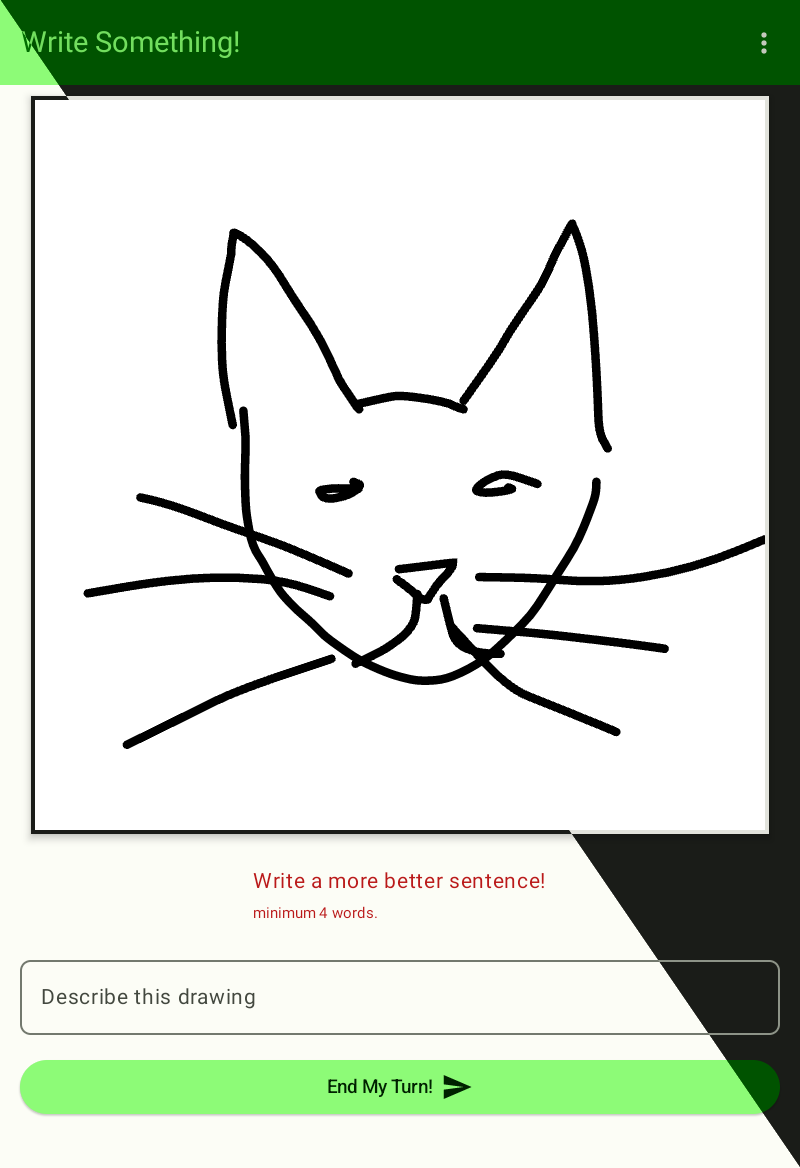
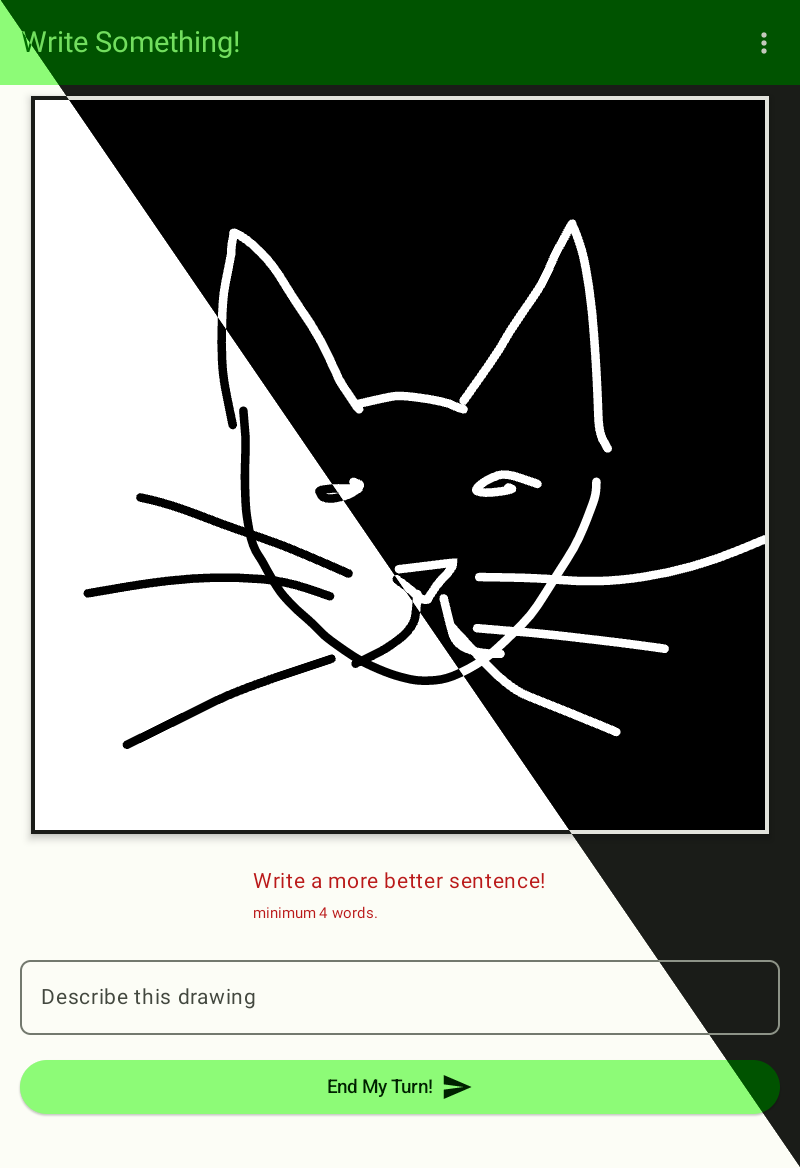
make dark, darker

diff --git a/app/src/main/java/dev/develsinthedetails/eatpoopyoucat/compose/draw/DrawScreen.kt b/app/src/main/java/dev/develsinthedetails/eatpoopyoucat/compose/draw/DrawScreen.kt
@@ -38,7 +38,6 @@ import androidx.compose.runtime.setValue
 import androidx.compose.ui.Modifier
 import androidx.compose.ui.draw.shadow
 import androidx.compose.ui.geometry.Offset
-import androidx.compose.ui.graphics.Color
 import androidx.compose.ui.graphics.StrokeCap
 import androidx.compose.ui.graphics.drawscope.Stroke
 import androidx.compose.ui.input.pointer.PointerInputChange
@@ -66,6 +65,8 @@ import dev.develsinthedetails.eatpoopyoucat.data.LineProperties
 import dev.develsinthedetails.eatpoopyoucat.data.LineSegment
 import dev.develsinthedetails.eatpoopyoucat.data.Resolution
 import dev.develsinthedetails.eatpoopyoucat.ui.theme.AppTheme
+import dev.develsinthedetails.eatpoopyoucat.ui.theme.drawingBackground
+import dev.develsinthedetails.eatpoopyoucat.ui.theme.drawingPen
 import dev.develsinthedetails.eatpoopyoucat.utilities.Gzip
 import dev.develsinthedetails.eatpoopyoucat.viewmodels.DrawMode
 import dev.develsinthedetails.eatpoopyoucat.viewmodels.DrawViewModel
@@ -256,7 +257,7 @@ private fun Draw(
         DrawBox(
             drawingLines = linesState.value,
             currentLine = currentLineState.value,
-            currentProperties = currentPropertiesState.value,
+            currentProperties = currentPropertiesState,
             modifier = modifier
         )
 
@@ -291,7 +292,7 @@ fun DrawBox(
     drawingZippedJson: ByteArray? = byteArrayOf(),
     drawingLines: List<Line> = listOf(),
     currentLine: List<LineSegment> = listOf(),
-    currentProperties: LineProperties = LineProperties(),
+    currentProperties: State<LineProperties> = mutableStateOf(LineProperties()),
     onClick: () -> Unit = {},
     onLongClick: () -> Unit = {},
 ) {
@@ -303,7 +304,10 @@ fun DrawBox(
         mutableListOf()
 
     if (currentLine.isNotEmpty())
-        lines.add(Line(currentLine, currentProperties))
+        lines.add(Line(currentLine, currentProperties.value))
+
+    val drawingBackground = MaterialTheme.colorScheme.drawingBackground
+    val drawingPen = MaterialTheme.colorScheme.drawingPen
 
     var height = 0
     var width = 0
@@ -312,7 +316,7 @@ fun DrawBox(
             .aspectRatio(1f)
             .padding(8.dp)
             .shadow(4.dp)
-            .background(Color.White)
+            .background(drawingBackground)
             .border(border = BorderStroke(3.dp, MaterialTheme.colorScheme.onBackground))
             .combinedClickable(
                 onLongClick = { onLongClick.invoke() },
@@ -329,6 +333,7 @@ fun DrawBox(
     {
         val currentResolution = Resolution(height = height, width = width)
         lines.forEach {
+            val drawColor = if (it.properties.eraseMode) drawingBackground else drawingPen
             val path = it.toPath()
             val scaledPath = DrawViewModel.scalePath(path, currentResolution, it.resolution)
             val scaledStroke = DrawViewModel.scaleStroke(
@@ -342,7 +347,7 @@ fun DrawBox(
             if (isSinglePoint) {
                 val bounds = scaledPath.getBounds()
                 drawCircle(
-                    color = it.properties.drawColor(),
+                    color = drawColor,
                     radius = scaledStroke / 4,
                     center = Offset(bounds.left, bounds.top),
                     style = Stroke(
@@ -352,7 +357,7 @@ fun DrawBox(
                 )
             } else
                 drawPath(
-                    color = it.properties.drawColor(),
+                    color = drawColor,
                     path = scaledPath,
                     style = Stroke(
                         width = scaledStroke,

diff --git a/app/src/main/java/dev/develsinthedetails/eatpoopyoucat/ui/theme/Theme.kt b/app/src/main/java/dev/develsinthedetails/eatpoopyoucat/ui/theme/Theme.kt
@@ -2,6 +2,7 @@ package dev.develsinthedetails.eatpoopyoucat.ui.theme
 
 import androidx.compose.foundation.isSystemInDarkTheme
 import androidx.compose.material3.ButtonDefaults
+import androidx.compose.material3.ColorScheme
 import androidx.compose.material3.MaterialTheme
 import androidx.compose.material3.darkColorScheme
 import androidx.compose.material3.lightColorScheme
@@ -127,5 +128,23 @@ fun warningColors(useDarkTheme: Boolean = isSystemInDarkTheme()): WarningColors 
         LightWarnings()
     } else{
         DarkWarnings()
+    }
+}
+
+val ColorScheme.drawingBackground: Color @Composable
+get() {
+    return if (isSystemInDarkTheme()) {
+        md_theme_dark_drawing_background
+    } else {
+        md_theme_light_drawing_background
+    }
+}
+
+val ColorScheme.drawingPen: Color @Composable
+get() {
+    return if (isSystemInDarkTheme()) {
+        md_theme_dark_drawing_pen
+    } else {
+        md_theme_light_drawing_pen
     }
 }

diff --git a/app/src/main/java/dev/develsinthedetails/eatpoopyoucat/ui/theme/Color.kt b/app/src/main/java/dev/develsinthedetails/eatpoopyoucat/ui/theme/Color.kt
@@ -32,6 +32,9 @@ val md_theme_light_surfaceTint = Color(0xFF006E00)
 val md_theme_light_outlineVariant = Color(0xFFC3C8BC)
 val md_theme_light_scrim = Color(0xFF000000)
 
+val md_theme_light_drawing_background = Color(0xFFFFFFFF)
+val md_theme_light_drawing_pen = Color(0xFF000000)
+
 val md_theme_dark_primary = Color(0xFF72DE5E)
 val md_theme_dark_onPrimary = Color(0xFF003A00)
 val md_theme_dark_primaryContainer = Color(0xFF005300)
@@ -63,6 +66,8 @@ val md_theme_dark_surfaceTint = Color(0xFF72DE5E)
 val md_theme_dark_outlineVariant = Color(0xFF43483F)
 val md_theme_dark_scrim = Color(0xFF000000)
 
+val md_theme_dark_drawing_background = Color(0xFF000000)
+val md_theme_dark_drawing_pen = Color(0xFFFFFFFF)
 
 val seed = Color(0xFF008000) //Primary on https://m3.material.io/theme-builder#/custom
 

diff --git a/app/src/androidTest/java/dev/develsinthedetails/eatpoopyoucat/ui/preview/GenerateScreenShots.kt b/app/src/androidTest/java/dev/develsinthedetails/eatpoopyoucat/ui/preview/GenerateScreenShots.kt
@@ -77,7 +77,7 @@ class GenerateScreenShots {
         }
         println("Saved screenshot $filename.png")
         runBlocking {
-            delay(3_000)
+            delay(8_000)
         }
     }
 }
